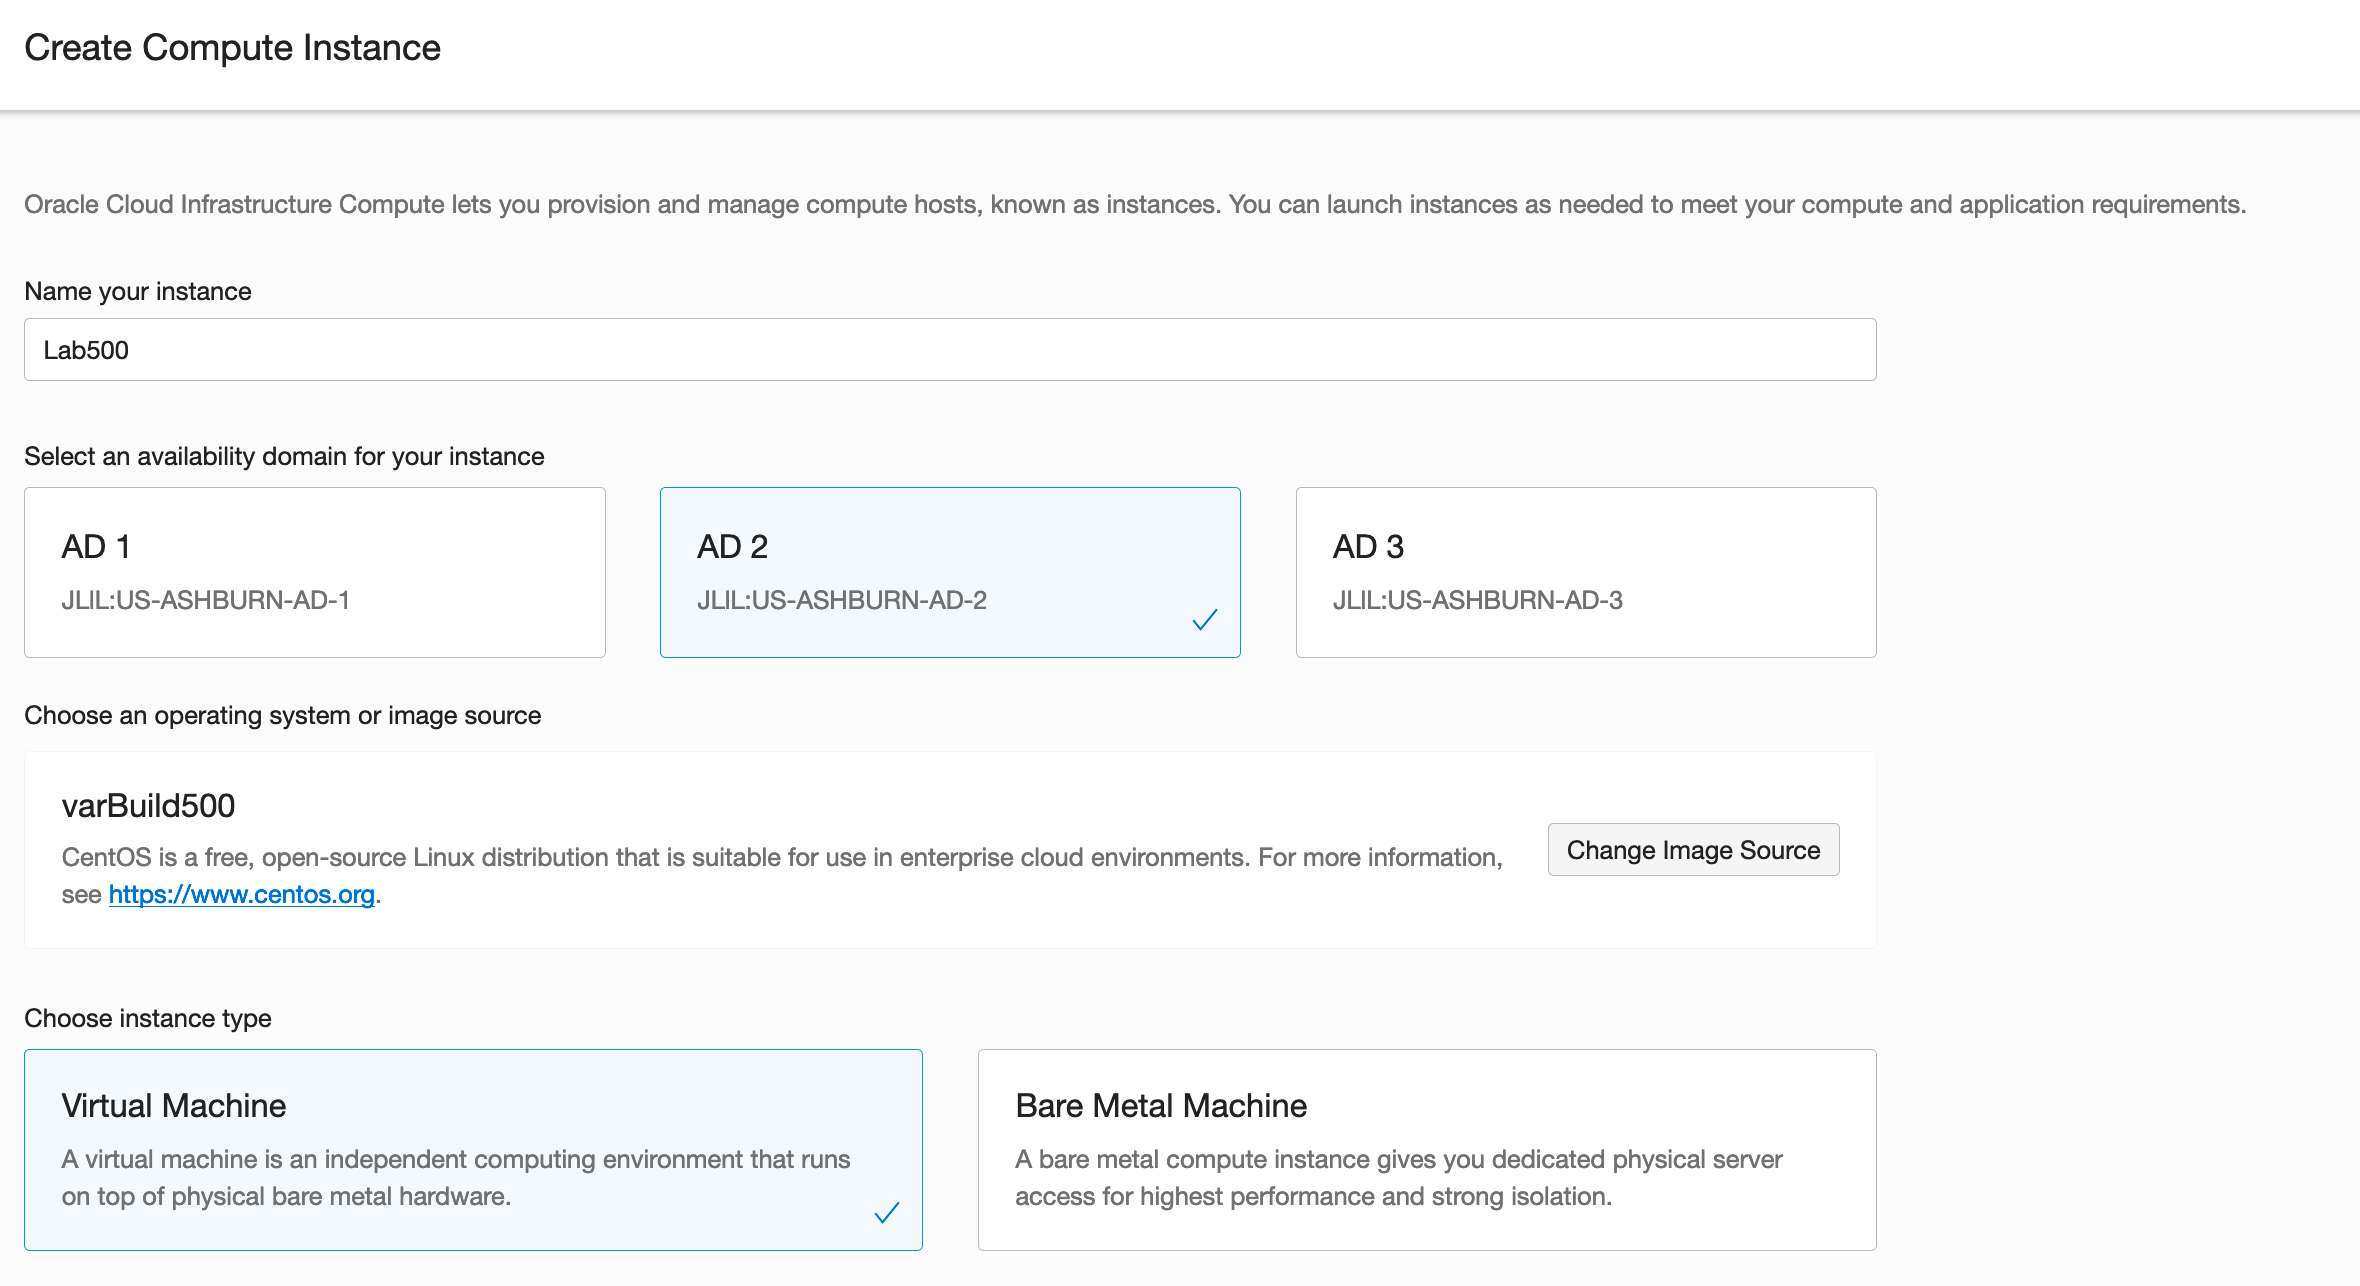
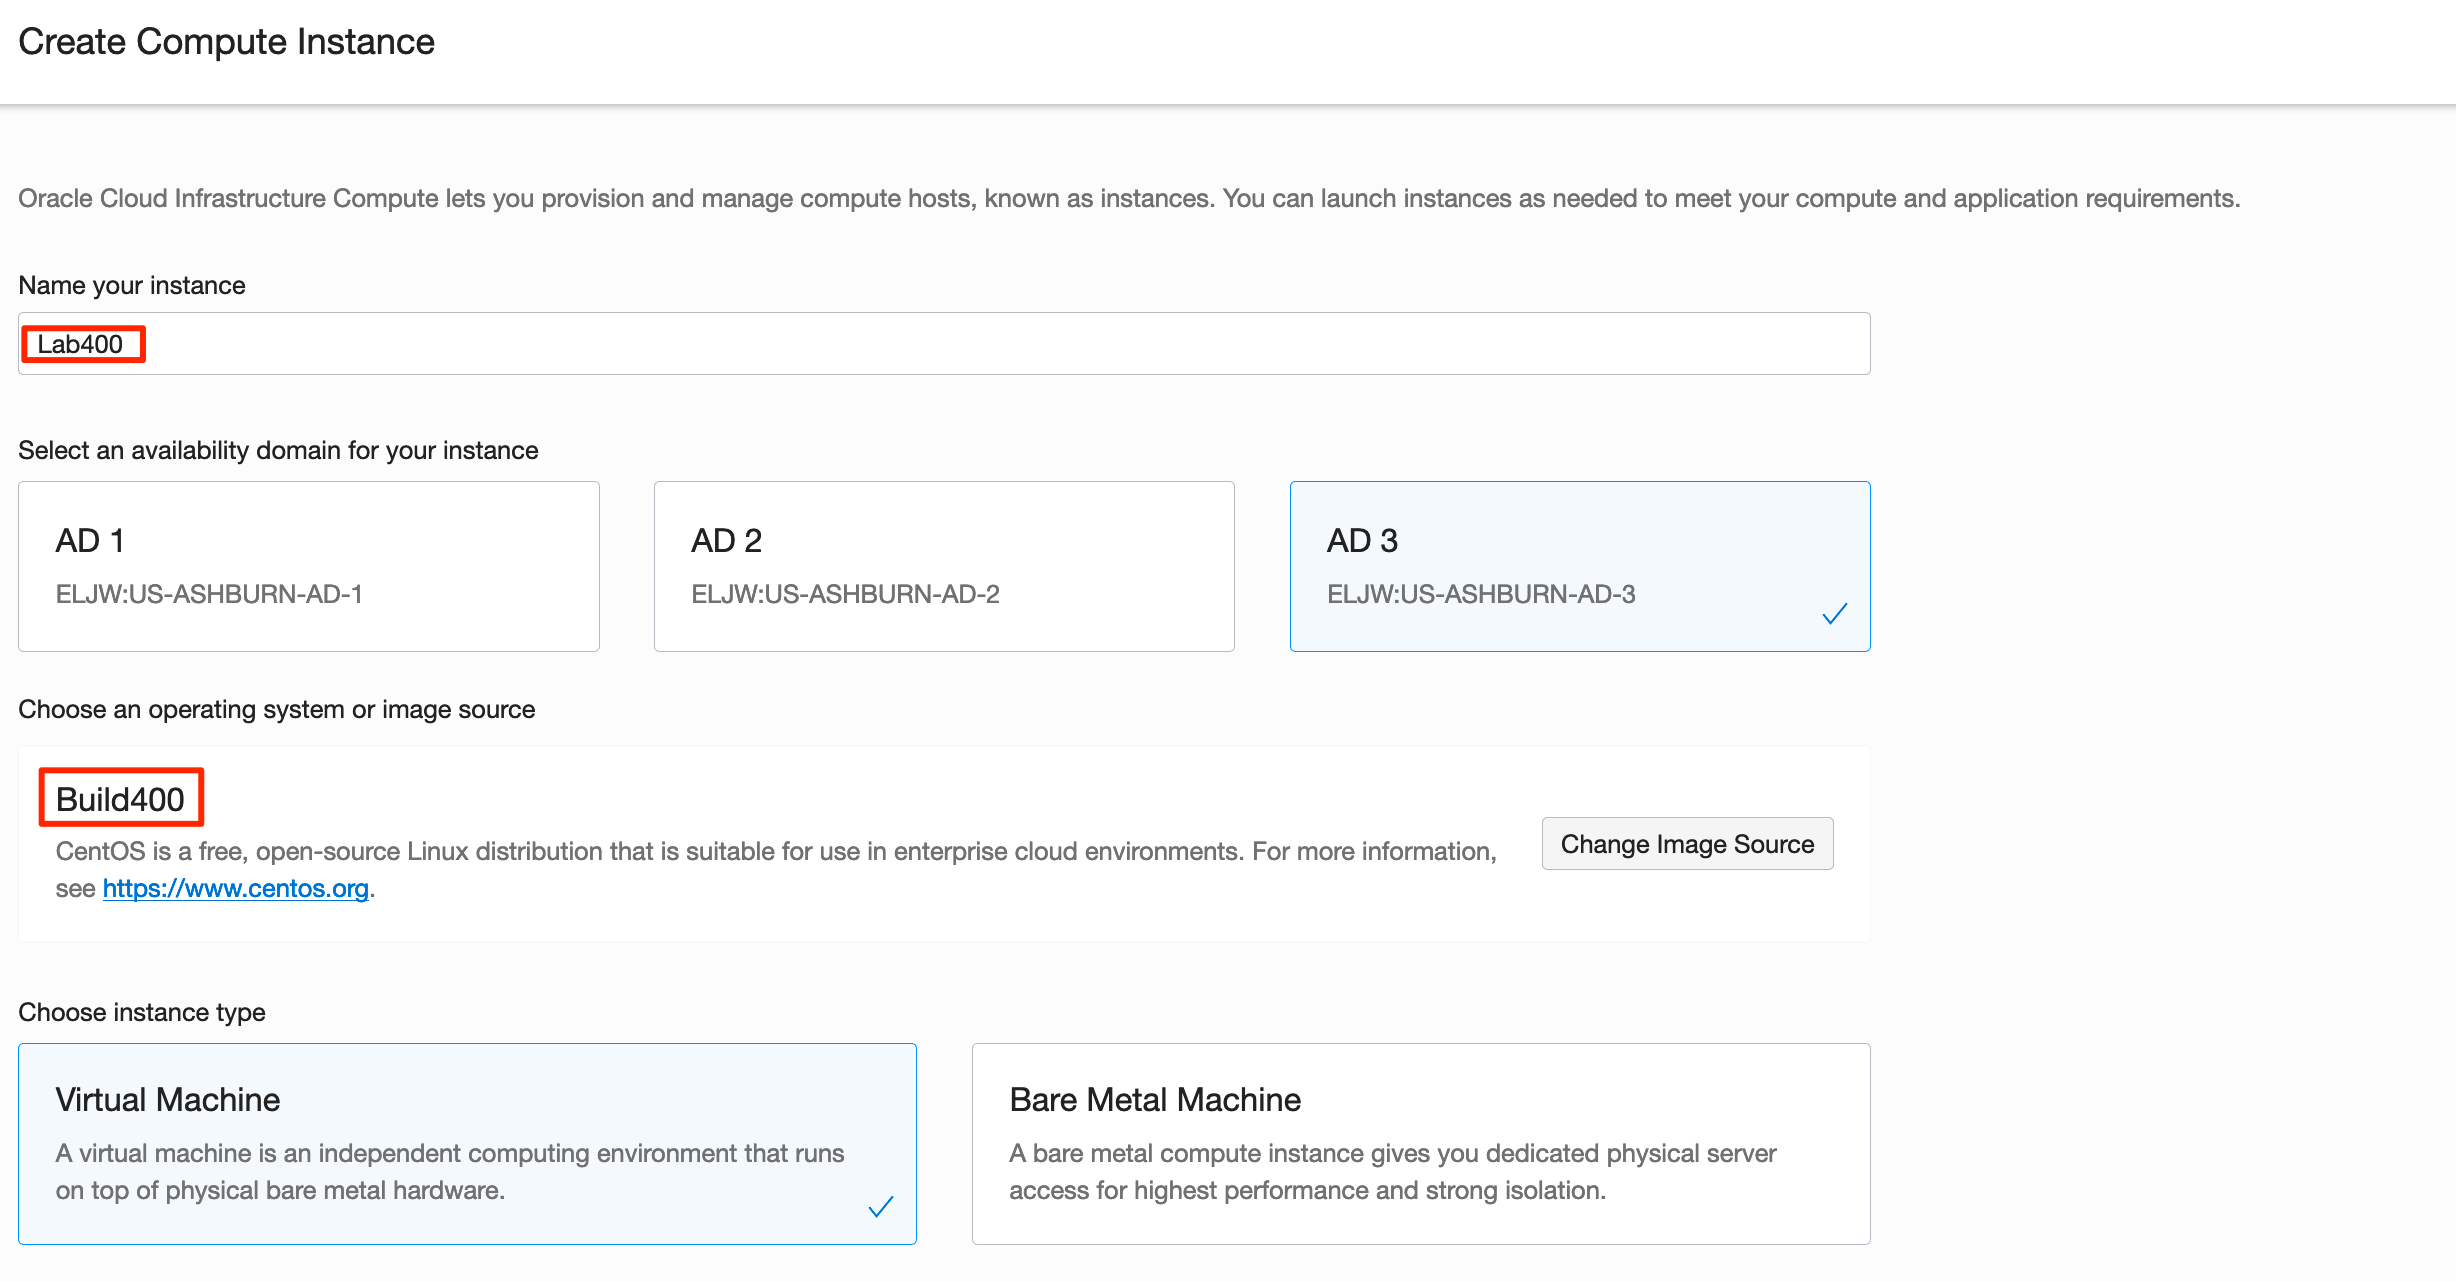
500 to 400 changes

diff --git a/workshops/packer-oci/Lab400.md b/workshops/packer-oci/Lab400.md
@@ -38,7 +38,7 @@ You will notice there are more commands here:
 
   - Enabling the Service VNCServer on port 5910 
   - Enable execute permission on Script to change the password for set for VNCServer to host
-  
+
   ![](images/Lab400/1.2.png)
 
 ### **STEP 2**: Validate the Packer build template 
@@ -70,11 +70,11 @@ packer build -var-file=_Variables.json_  varBuild400.json
 
 - Navigate to back to your browser's OCI Console to see your custom image - Lab400.
 
-- Using the elisipse to the right of the image creation time, select "Create Instance" 
+- Using the elisipse to the right of the image creation time, select "Create Instance"
 
   ![](images/Lab400/11.png)
 
-- **Select** a name for the image (Lab400) and place it in any Availability Domain
+- **Select** a name for the image (Lab400) and place it in  Availability Domain 3
 
   ![](images/Lab400/14.png)
 
